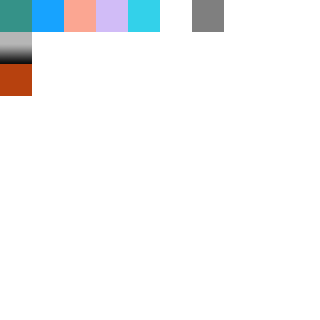
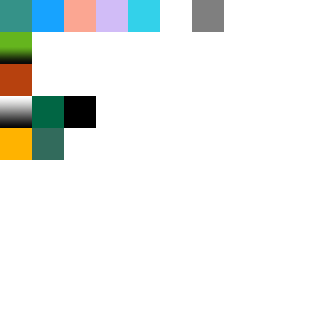
Added park light and footpath stones and added the png colors

Changed region(s): [[0.0, 0.2812, 0.3125, 0.5], [0.0, 0.0938, 0.125, 0.1875]]

diff --git a/Blender_elements/World/Park/Park.md b/Blender_elements/World/Park/Park.md
@@ -4,3 +4,5 @@ Below is the order in which the colors are placed in UV atlas PNG:
 1st line - Park bench colors
 2nd line - Leaves, bushes colors
 3rd line - Hexagon shade
+4th line - light stuff
+5th line - Footpath stuff
